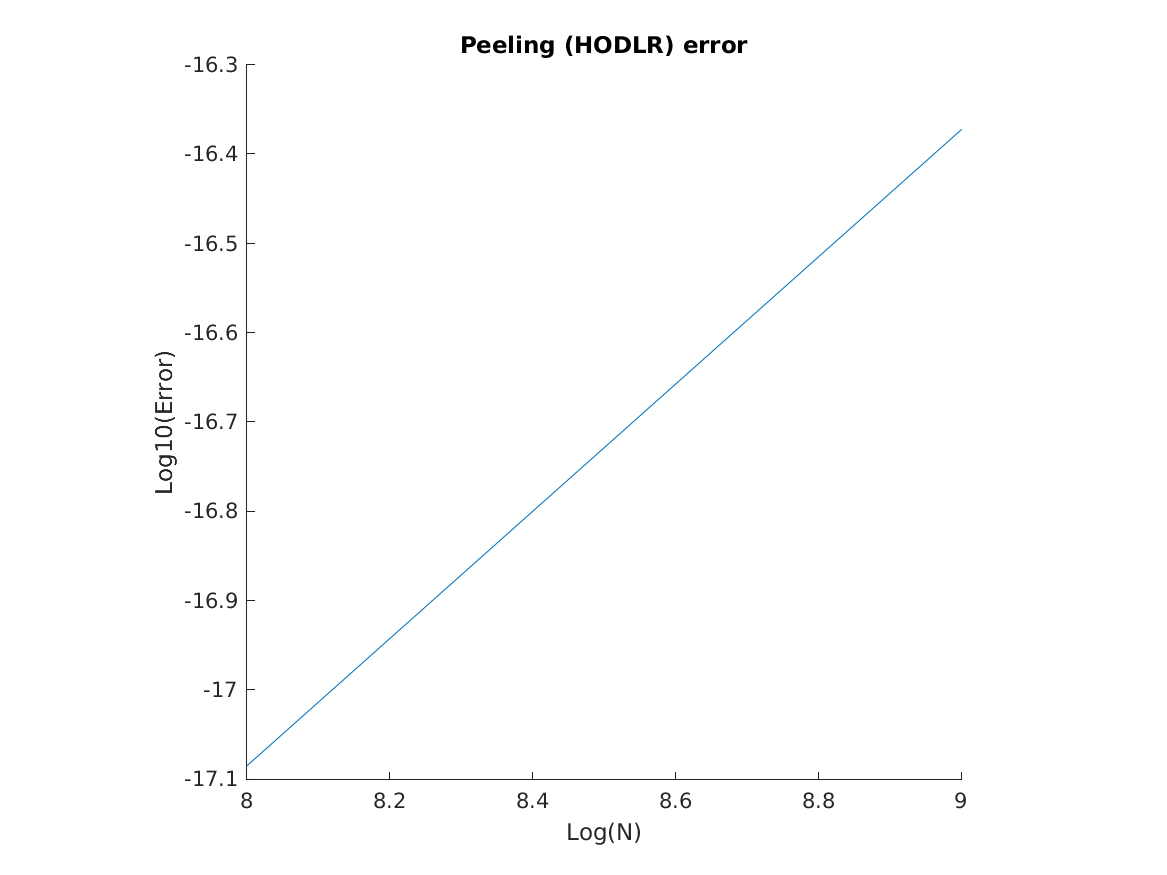
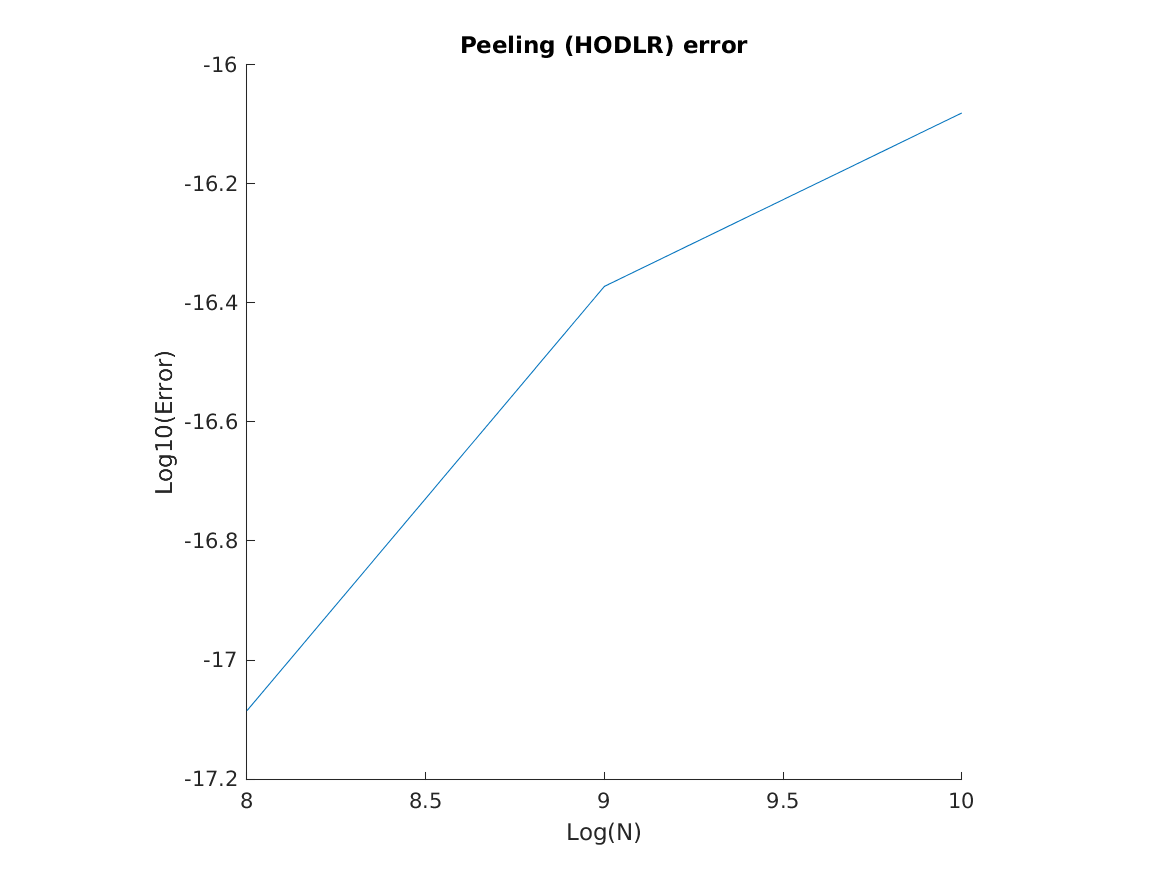
first test

diff --git a/Comp_HIF_HQR_1D.m b/Comp_HIF_HQR_1D.m
@@ -17,7 +17,7 @@ tol_bf = 1E-6;
 tol_peel = 1E-4;
 tol_RSS = 1E-3;
 
-dims = [256 512]
+dims = [256 512 1024]
 cases = length(dims);
 bftime = zeros(cases, 1);
 bferr = zeros(cases, 1);
@@ -118,7 +118,7 @@ for i = 1:cases
 
     % Construct HODLR-QR factorization of HODLR matrix
     tStart_HQR = tic;
-    [Y, YB, YC, T, R, rk] = hodlrqr(HODLR, [], [], [], lvls, 1, tol_RSS/10);
+    [Y, YB, YC, T, R, rk] = hodlrqr(HODLR, [], [], [], lvls, 1, tol_RSS);
     t = toc(tStart_HQR);
     factime_hqr(i) = t;
     ranks_hqr(i) = rk;
@@ -137,7 +137,7 @@ for i = 1:cases
     fprintf(OutPutFile, 'HQR mv err/time: %10.4e/%10.4e \n', e, t);
 
     tic
-    RSS_inv(G,f);
+    hodlrqr_inv(Y, T, R, f);
     t=toc;
     % [e,niter] = snorm(N,@(x)(x-apply_bf(Factor,hodlrqr_inv(Y, T, R, apply_bf_adj(Factor,x)))),[],[],32);
     e = norm(f-apply_bf(Factor,hodlrqr_inv(Y, T, R, apply_bf_adj(Factor,f))))/norm(f);
